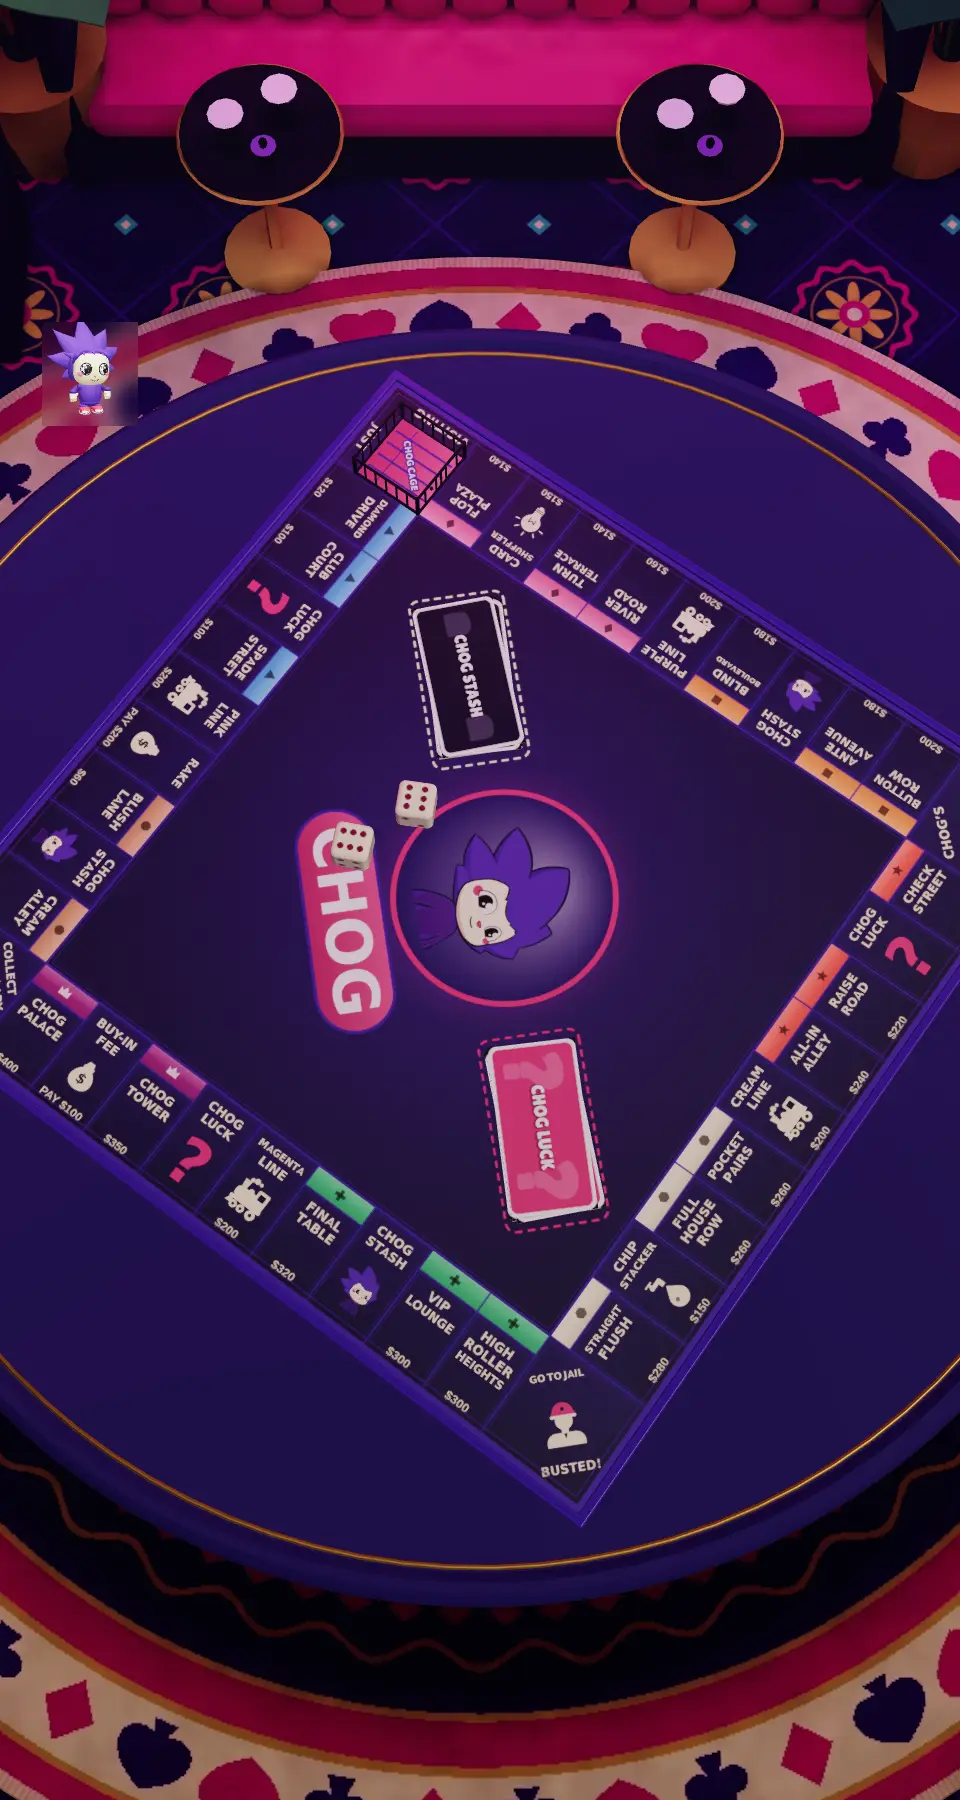
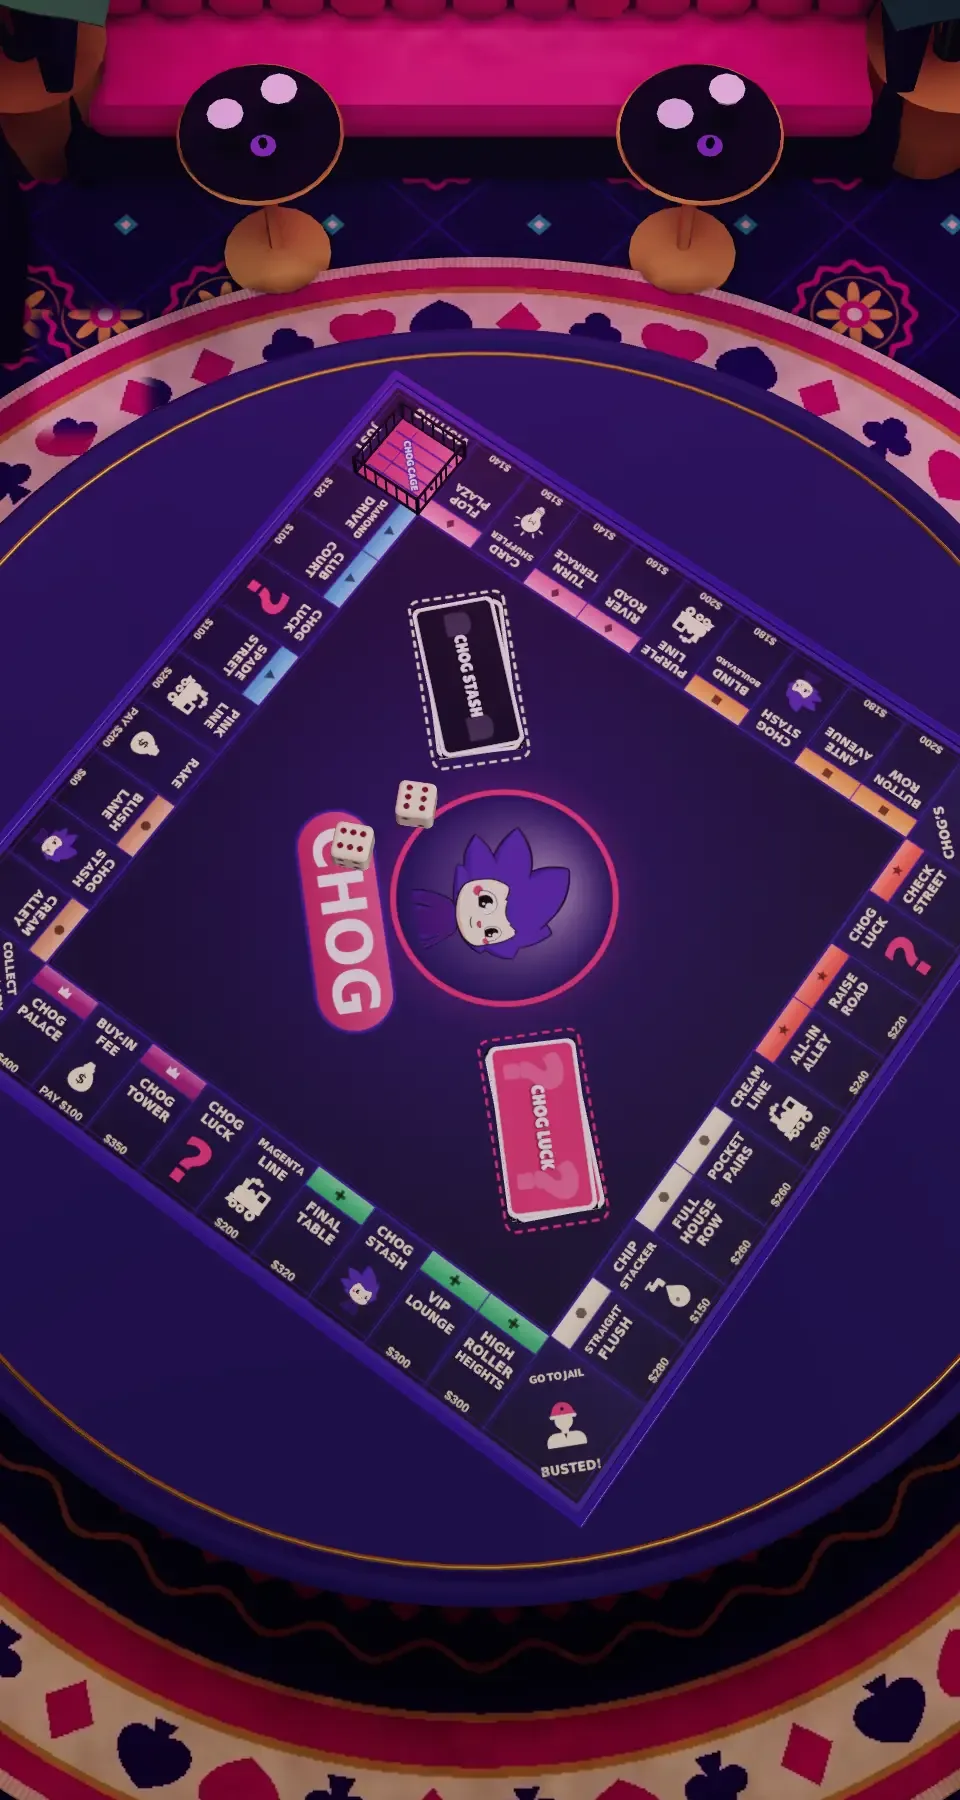
Home: no stray Chog in the backdrop, no "See them move" link
The home backdrop stills had a lone Chog standing at the table edge by
START; it is painted out of both the wide and the tall still. The cast
section's "See them move" link goes (the Characters page is in the
header); "See all characters" stays for when there are others to see.

Claude-Session: https://claude.ai/code/session_01Saq1C2M9Q8PgAMcXJP8Bqj

Changed region(s): [[0.0312, 0.1556, 0.1562, 0.2489]]

diff --git a/client/src/pages/Home.tsx b/client/src/pages/Home.tsx
@@ -211,7 +211,7 @@ export default function Home() {
       <section className="cast" aria-labelledby="cast-title">
         <div className="cast-head">
           <h2 id="cast-title">{castTitle}</h2>
-          <Link className="cast-all" to="/characters">{others.length ? 'See all characters →' : 'See them move →'}</Link>
+          {others.length > 0 && <Link className="cast-all" to="/characters">See all characters →</Link>}
         </div>
         <div className={`cast-stars${featured.length === 1 ? ' solo' : ''}`}>
           {featured.map(c => (
